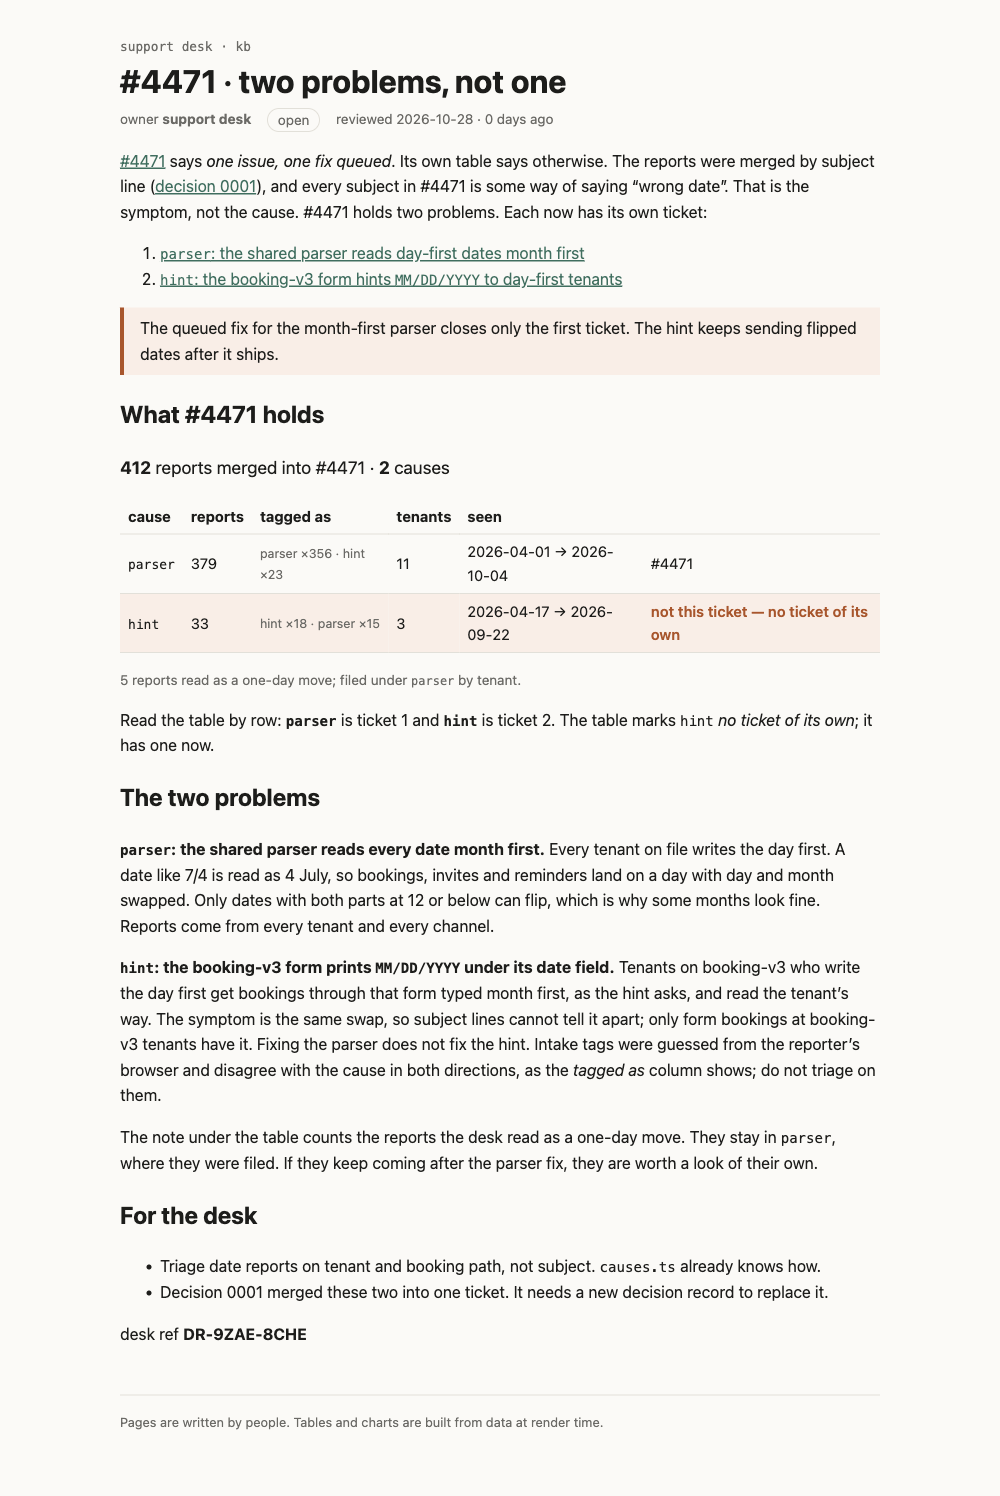
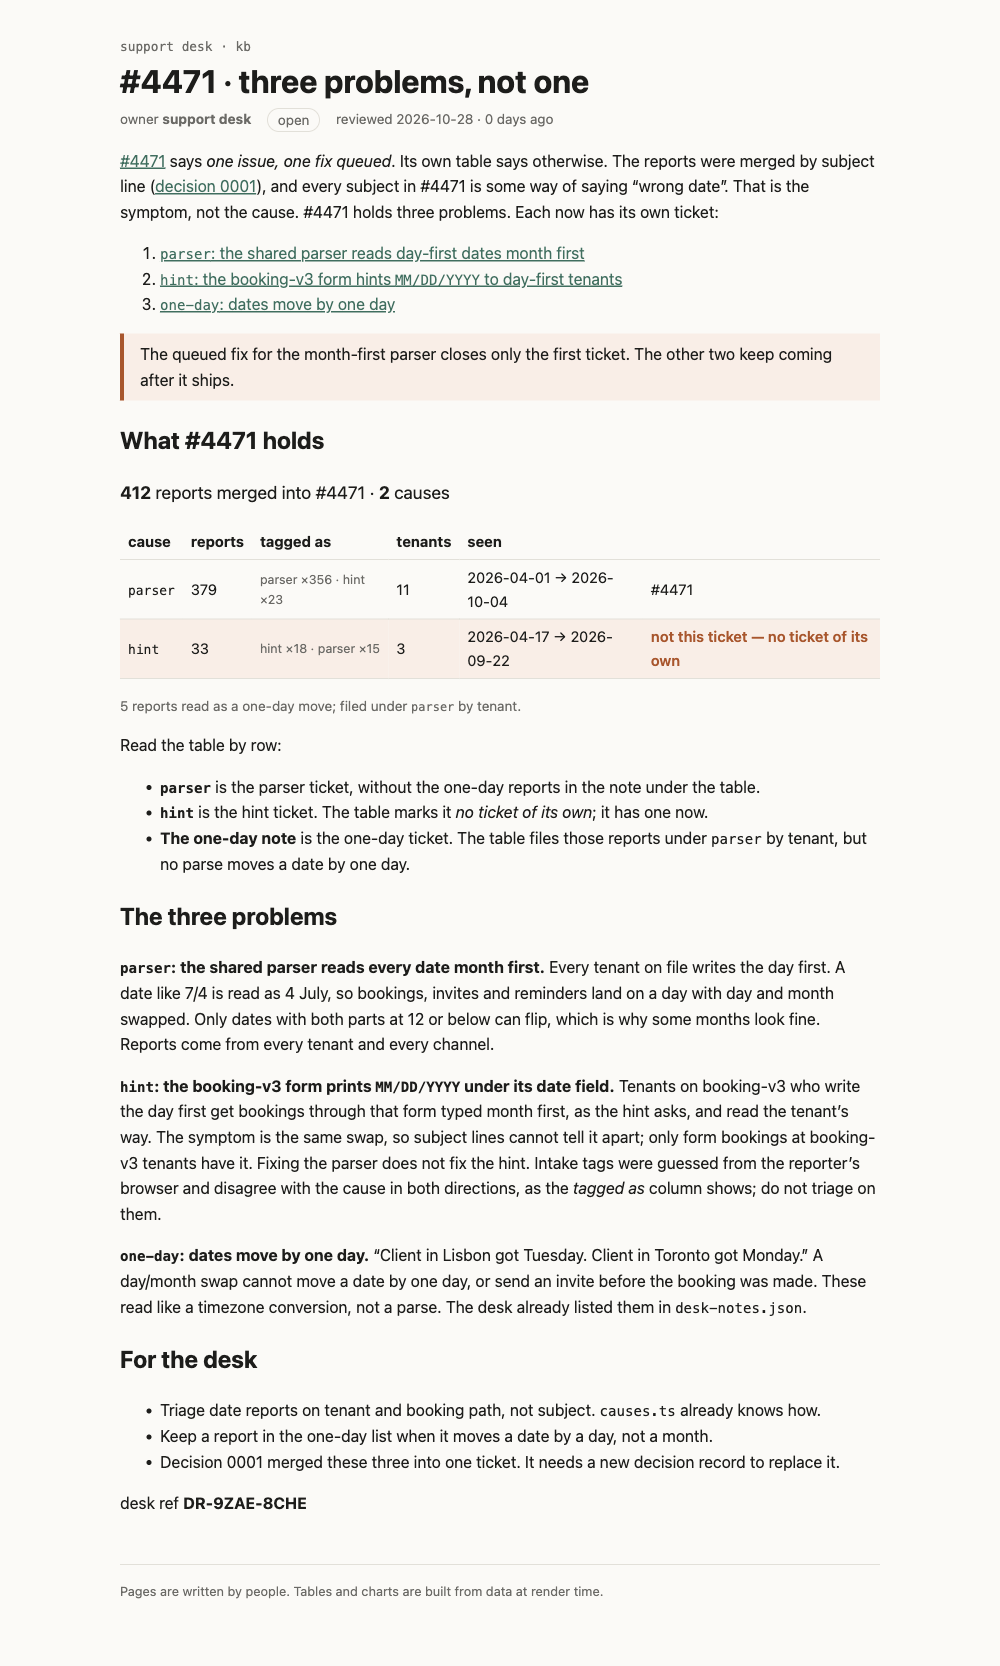
kb: back to three problems

diff --git a/rendered/kb-incidents-4471-problems.html b/rendered/kb-incidents-4471-problems.html
@@ -14,7 +14,7 @@
 		
 		
 		
-		<!--e2jw2j--><!----><title>#4471 · two problems, not one · support kb</title>
+		<!--e2jw2j--><!----><title>#4471 · three problems, not one · support kb</title>
 		<style>:root{--bg:#fbfaf7;--fg:#1d1d1b;--muted:#6b6a66;--line:#e3e0d8;--accent:#2f6f5e;--warn:#b4501f;--warn-bg:#fbeee6;--note-bg:#eef5f2;--mono:ui-monospace, "Cascadia Code", Menlo, monospace}@media (prefers-color-scheme:dark){:root{--bg:#171716;--fg:#ecebe6;--muted:#9c9a93;--line:#34332f;--accent:#6fbfa6;--warn:#f0905d;--warn-bg:#3a2418;--note-bg:#1d2c27}}body{background:var(--bg);color:var(--fg);margin:0;font:16px/1.6 system-ui,sans-serif}.kb table{border-collapse:collapse;width:100%;margin:1rem 0;font-size:.92rem}.kb th,.kb td{border-bottom:1px solid var(--line);text-align:left;padding:.35rem .5rem}.kb code{font-family:var(--mono);font-size:.88em}.kb a{color:var(--accent)}.kb.svelte-e2jw2j{max-width:760px;margin:0 auto;padding:2rem 16px 4rem}.crumb.svelte-e2jw2j{font:.8rem var(--mono);color:var(--muted);text-decoration:none}h1.svelte-e2jw2j{margin:.25rem 0 .5rem;line-height:1.2}.meta.svelte-e2jw2j{color:var(--muted);flex-wrap:wrap;gap:.5rem 1rem;margin:0;font-size:.85rem;display:flex}.status.svelte-e2jw2j{border:1px solid var(--line);border-radius:99px;padding:0 .6rem}.stale.svelte-e2jw2j{color:var(--warn);font-weight:600}.banner.svelte-e2jw2j{background:var(--warn-bg);color:var(--warn);border-radius:6px;padding:.6rem 1rem}footer.svelte-e2jw2j{color:var(--muted);border-top:1px solid var(--line);margin-top:3rem;padding-top:1rem;font-size:.8rem}
 </style>
 		<style>aside.svelte-17bri61{border-left:4px solid var(--accent);background:var(--note-bg);margin:1rem 0;padding:.5rem 1rem}aside.warn.svelte-17bri61{border-color:var(--warn);background:var(--warn-bg)}
@@ -25,19 +25,21 @@
 </style>
   </head>
   <body data-sveltekit-preload-data="hover">
-    <div style="display: contents"><!--[--><!--[0--><!--[--><!--[--><div class="kb svelte-e2jw2j"><header><a class="crumb svelte-e2jw2j" href="/kb">support desk · kb</a> <h1 class="svelte-e2jw2j">#4471 · two problems, not one</h1> <p class="meta svelte-e2jw2j"><span>owner <b>support desk</b></span> <span class="status open svelte-e2jw2j">open</span> <span class="svelte-e2jw2j">reviewed 2026-10-28 · 0 days ago</span></p></header> <!--[-1--><!--]--> <main><p><a href="/kb/incidents/4471">#4471</a> says <em>one issue, one fix queued</em>. Its own table says otherwise. The
+    <div style="display: contents"><!--[--><!--[0--><!--[--><!--[--><div class="kb svelte-e2jw2j"><header><a class="crumb svelte-e2jw2j" href="/kb">support desk · kb</a> <h1 class="svelte-e2jw2j">#4471 · three problems, not one</h1> <p class="meta svelte-e2jw2j"><span>owner <b>support desk</b></span> <span class="status open svelte-e2jw2j">open</span> <span class="svelte-e2jw2j">reviewed 2026-10-28 · 0 days ago</span></p></header> <!--[-1--><!--]--> <main><p><a href="/kb/incidents/4471">#4471</a> says <em>one issue, one fix queued</em>. Its own table says otherwise. The
 reports were merged by subject line (<a href="/kb/decisions/0001-dedupe-by-subject">decision 0001</a>), and
 every subject in #4471 is some way of saying “wrong date”. That is the symptom, not the cause.
-#4471 holds two problems. Each now has its own ticket:</p> <ol><li><a href="https://github.com/BorislavStefanov31/support-kb-4471/issues/1" rel="nofollow"><code>parser</code>: the shared parser reads day-first dates month first</a></li> <li><a href="https://github.com/BorislavStefanov31/support-kb-4471/issues/2" rel="nofollow"><code>hint</code>: the booking-v3 form hints <code>MM/DD/YYYY</code> to day-first tenants</a></li></ol> <aside class="warn svelte-17bri61"><!---->The queued fix for the month-first parser closes only the first ticket. The hint keeps sending
-flipped dates after it ships.<!----></aside><!----> <h2>What #4471 holds</h2> <p class="sum svelte-12oyimm"><strong>412</strong> reports merged into #4471 · <strong>2</strong> causes</p> <table><thead><tr><th>cause</th><th>reports</th><th>tagged as</th><th>tenants</th><th>seen</th><th></th></tr></thead><tbody><!--[--><tr class="svelte-12oyimm"><td class="svelte-12oyimm"><code>parser</code></td><td class="svelte-12oyimm">379</td><td class="tags svelte-12oyimm">parser ×356 · hint ×23</td><td class="svelte-12oyimm">11</td><td class="svelte-12oyimm">2026-04-01 → 2026-10-04</td><td class="svelte-12oyimm">#4471</td></tr><tr class="svelte-12oyimm wrong"><td class="svelte-12oyimm"><code>hint</code></td><td class="svelte-12oyimm">33</td><td class="tags svelte-12oyimm">hint ×18 · parser ×15</td><td class="svelte-12oyimm">3</td><td class="svelte-12oyimm">2026-04-17 → 2026-09-22</td><td class="svelte-12oyimm">not this ticket — no ticket of its own</td></tr><!--]--></tbody></table> <!--[--><!--[0--><p class="note svelte-12oyimm">5 reports read as a one-day move; filed under <code>parser</code> by tenant.</p><!--]--><!--[-1--><!--]--><!--]--><!----> <p>Read the table by row: <strong><code>parser</code></strong> is ticket 1 and <strong><code>hint</code></strong> is ticket 2. The table marks <code>hint</code> <em>no ticket of its own</em>; it has one now.</p> <h2>The two problems</h2> <p><strong><code>parser</code>: the shared parser reads every date month first.</strong> Every tenant on file writes the day
+#4471 holds three problems. Each now has its own ticket:</p> <ol><li><a href="https://github.com/BorislavStefanov31/support-kb-4471/issues/1" rel="nofollow"><code>parser</code>: the shared parser reads day-first dates month first</a></li> <li><a href="https://github.com/BorislavStefanov31/support-kb-4471/issues/2" rel="nofollow"><code>hint</code>: the booking-v3 form hints <code>MM/DD/YYYY</code> to day-first tenants</a></li> <li><a href="https://github.com/BorislavStefanov31/support-kb-4471/issues/4" rel="nofollow"><code>one-day</code>: dates move by one day</a></li></ol> <aside class="warn svelte-17bri61"><!---->The queued fix for the month-first parser closes only the first ticket. The other two keep coming
+after it ships.<!----></aside><!----> <h2>What #4471 holds</h2> <p class="sum svelte-12oyimm"><strong>412</strong> reports merged into #4471 · <strong>2</strong> causes</p> <table><thead><tr><th>cause</th><th>reports</th><th>tagged as</th><th>tenants</th><th>seen</th><th></th></tr></thead><tbody><!--[--><tr class="svelte-12oyimm"><td class="svelte-12oyimm"><code>parser</code></td><td class="svelte-12oyimm">379</td><td class="tags svelte-12oyimm">parser ×356 · hint ×23</td><td class="svelte-12oyimm">11</td><td class="svelte-12oyimm">2026-04-01 → 2026-10-04</td><td class="svelte-12oyimm">#4471</td></tr><tr class="svelte-12oyimm wrong"><td class="svelte-12oyimm"><code>hint</code></td><td class="svelte-12oyimm">33</td><td class="tags svelte-12oyimm">hint ×18 · parser ×15</td><td class="svelte-12oyimm">3</td><td class="svelte-12oyimm">2026-04-17 → 2026-09-22</td><td class="svelte-12oyimm">not this ticket — no ticket of its own</td></tr><!--]--></tbody></table> <!--[--><!--[0--><p class="note svelte-12oyimm">5 reports read as a one-day move; filed under <code>parser</code> by tenant.</p><!--]--><!--[-1--><!--]--><!--]--><!----> <p>Read the table by row:</p> <ul><li><strong><code>parser</code></strong> is the parser ticket, without the one-day reports in the note under the table.</li> <li><strong><code>hint</code></strong> is the hint ticket. The table marks it <em>no ticket of its own</em>; it has one now.</li> <li><strong>The one-day note</strong> is the one-day ticket. The table files those reports under <code>parser</code> by
+tenant, but no parse moves a date by one day.</li></ul> <h2>The three problems</h2> <p><strong><code>parser</code>: the shared parser reads every date month first.</strong> Every tenant on file writes the day
 first. A date like 7/4 is read as 4 July, so bookings, invites and reminders land on a day with
 day and month swapped. Only dates with both parts at 12 or below can flip, which is why some
 months look fine. Reports come from every tenant and every channel.</p> <p><strong><code>hint</code>: the booking-v3 form prints <code>MM/DD/YYYY</code> under its date field.</strong> Tenants on booking-v3
 who write the day first get bookings through that form typed month first, as the hint asks, and
 read the tenant’s way. The symptom is the same swap, so subject lines cannot tell it apart; only
 form bookings at booking-v3 tenants have it. Fixing the parser does not fix the hint. Intake tags
-were guessed from the reporter’s browser and disagree with the cause in both directions, as the <em>tagged as</em> column shows; do not triage on them.</p> <p>The note under the table counts the reports the desk read as a one-day move. They stay in <code>parser</code>, where they were filed. If they keep coming after the parser fix, they are worth a look
-of their own.</p> <h2>For the desk</h2> <ul><li>Triage date reports on tenant and booking path, not subject. <code>causes.ts</code> already knows how.</li> <li>Decision 0001 merged these two into one ticket. It needs a new decision record to replace it.</li></ul> <!--[0--><p class="stamp svelte-1280m42">desk ref <b class="svelte-1280m42">DR-9ZAE-8CHE</b></p><!--]--><!----><!----></main> <footer class="svelte-e2jw2j">Pages are written by people. Tables and charts are built from data at render time.</footer></div><!--]--><!----><!--]--><!--]--> <!--[-1--><!--]--><!--]-->
+were guessed from the reporter’s browser and disagree with the cause in both directions, as the <em>tagged as</em> column shows; do not triage on them.</p> <p><strong><code>one-day</code>: dates move by one day.</strong> “Client in Lisbon got Tuesday. Client in Toronto got Monday.”
+A day/month swap cannot move a date by one day, or send an invite before the booking was made.
+These read like a timezone conversion, not a parse. The desk already listed them in <code>desk-notes.json</code>.</p> <h2>For the desk</h2> <ul><li>Triage date reports on tenant and booking path, not subject. <code>causes.ts</code> already knows how.</li> <li>Keep a report in the one-day list when it moves a date by a day, not a month.</li> <li>Decision 0001 merged these three into one ticket. It needs a new decision record to replace it.</li></ul> <!--[0--><p class="stamp svelte-1280m42">desk ref <b class="svelte-1280m42">DR-9ZAE-8CHE</b></p><!--]--><!----><!----></main> <footer class="svelte-e2jw2j">Pages are written by people. Tables and charts are built from data at render time.</footer></div><!--]--><!----><!--]--><!--]--> <!--[-1--><!--]--><!--]-->
 			
 			
 		</div>
